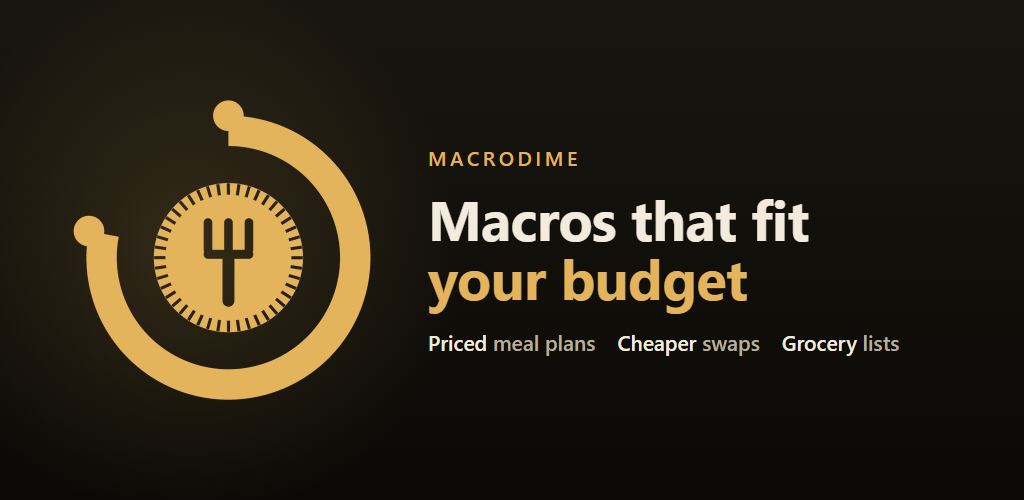
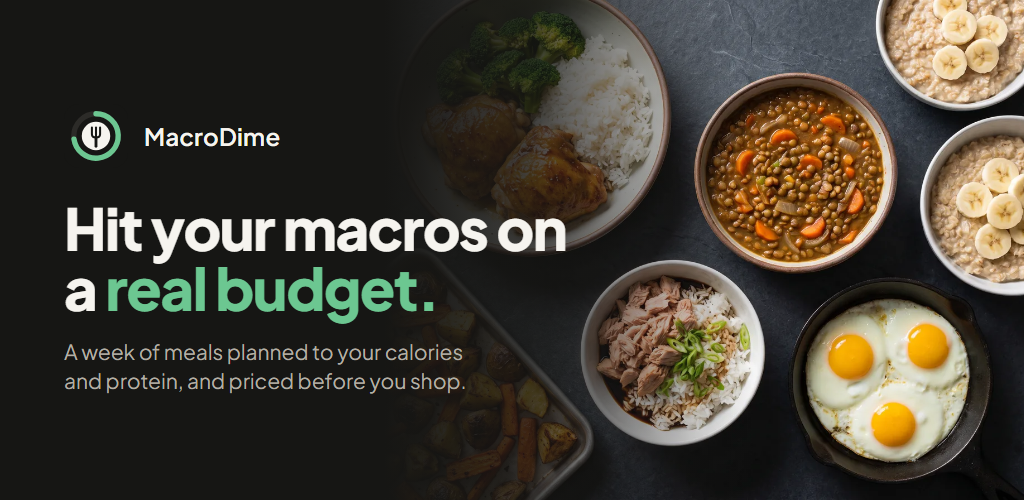
Make the store graphics from the real app, with a demo week and no real name
The Play screenshots showed "Good evening, Lungelo" and a $5.98 shopping
list against a $63 week, because the demo planned one day; the feature
graphic was still black and gold.

- DemoData names its user Sam, a placeholder, on both platforms, and plans
  the rest of the grocery week the way onboarding plans a new user's, so
  Groceries shows a real week's shop ($55.56 of $63, 28 items).
- The screenshot test that photographs an empty day now steps to the first
  day after the demo week, which is the first one left empty.
- make_store_screenshots.py frames five real screens from ScreenshotTest
  (Today, Plan, the swap review, Groceries, Today in dark) at 1080 x 1920
  with a caption each, in the app's type and colours.
- The feature graphic is the app's first screen at banner width: ink, the
  food photograph, the new icon and "Hit your macros on a real budget."
  The render script now allows the page its local font and photo, and uses
  a profile of its own so an open Edge window cannot take the job over.
  play-store/mark.png, the old mark it used, is gone.

All 22 screenshot tests pass with the demo week.

diff --git a/android/play-store/feature-graphic.html b/android/play-store/feature-graphic.html
@@ -2,56 +2,53 @@
 <!--
   Source of play-store/feature-graphic.png, the 1024 x 500 banner Play Console
   requires. Rendered by android/scripts/render_feature_graphic.ps1 with headless
-  Edge. Every word is HTML text, so it can be edited and re-rendered rather
-  than repainted. Play may crop the edges on some surfaces, so nothing that
-  matters sits within 40 px of one.
+  Edge. It is the app's own first screen at banner width: ink, the app's font
+  and food photograph, its green, its icon (icon.svg, from make_icons.py) and
+  its opening line. Every word is HTML text, so it can be edited and
+  re-rendered rather than repainted. Play may crop the edges on some surfaces,
+  so nothing that matters sits within 40 px of one.
 -->
 <html lang="en">
 <head>
 <meta charset="utf-8">
 <title>MacroDime feature graphic</title>
 <style>
+  @font-face { font-family: Jakarta; src: url(../app/src/main/res/font/jakarta_extrabold.ttf); font-weight: 800; }
+  @font-face { font-family: Jakarta; src: url(../app/src/main/res/font/jakarta_semibold.ttf); font-weight: 600; }
+  @font-face { font-family: Jakarta; src: url(../app/src/main/res/font/jakarta_regular.ttf); font-weight: 400; }
   :root {
-    --gold: #E3B45C;
-    --cream: #F3EBDD;
-    --muted: #B9AE9A;
+    --ink: #161614;
+    --paper: #F6F4EF;
+    --muted: #B4AFA5;
+    --basil: #6CC791;
   }
   html, body { margin: 0; width: 1024px; height: 500px; overflow: hidden; }
-  body {
-    background: linear-gradient(180deg, #19160F 0%, #0A0906 100%);
-    font-family: "Segoe UI", "Roboto", "Helvetica Neue", Arial, sans-serif;
-    color: var(--cream);
-    display: flex;
-    align-items: center;
-    position: relative;
+  body { background: var(--ink); font-family: Jakarta, sans-serif; color: var(--paper); position: relative; }
+  .photo {
+    position: absolute; right: 0; top: 0; width: 640px; height: 500px;
+    background: url(../app/src/main/res/drawable-nodpi/food_spread.webp) center 42% / cover no-repeat;
   }
-  .glow {
-    position: absolute; left: -120px; top: -60px; width: 620px; height: 620px;
-    background: radial-gradient(circle, rgba(227,180,92,0.16) 0%, rgba(227,180,92,0) 62%);
+  /* The photo fades into the ink under the words, as the first screen's does. */
+  .fade {
+    position: absolute; right: 0; top: 0; width: 640px; height: 500px;
+    background: linear-gradient(90deg, var(--ink) 0%, rgba(22,22,20,0.82) 22%, rgba(22,22,20,0) 58%);
   }
-  .mark { position: relative; width: 300px; height: 300px; margin-left: 72px; flex: none; }
-  .copy { position: relative; margin-left: 56px; margin-right: 64px; }
-  .eyebrow {
-    font-size: 20px; letter-spacing: 0.18em; text-transform: uppercase;
-    color: var(--gold); font-weight: 600; margin-bottom: 18px;
-  }
-  h1 { font-size: 56px; line-height: 1.04; margin: 0 0 22px; font-weight: 700; letter-spacing: -0.01em; }
-  h1 span { color: var(--gold); }
-  .points { display: flex; gap: 22px; font-size: 21px; color: var(--muted); font-weight: 500; }
-  .points b { color: var(--cream); font-weight: 600; }
+  .copy { position: absolute; left: 64px; top: 0; bottom: 0; width: 520px; display: flex; flex-direction: column; justify-content: center; }
+  .brand { display: flex; align-items: center; gap: 16px; margin-bottom: 30px; }
+  .brand img { width: 64px; height: 64px; border-radius: 15px; display: block; }
+  .brand span { font-weight: 600; font-size: 24px; letter-spacing: 0.01em; }
+  h1 { font-weight: 800; font-size: 58px; line-height: 1.02; letter-spacing: -0.025em; margin: 0 0 20px; }
+  h1 em { font-style: normal; color: var(--basil); }
+  p { font-weight: 400; font-size: 21px; line-height: 1.4; color: var(--muted); margin: 0; max-width: 440px; }
 </style>
 </head>
 <body>
-  <div class="glow"></div>
-  <img class="mark" src="mark.png" alt="">
+  <div class="photo"></div>
+  <div class="fade"></div>
   <div class="copy">
-    <div class="eyebrow">MacroDime</div>
-    <h1>Macros that fit<br><span>your budget</span></h1>
-    <div class="points">
-      <div><b>Priced</b> meal plans</div>
-      <div><b>Cheaper</b> swaps</div>
-      <div><b>Grocery</b> lists</div>
-    </div>
+    <div class="brand"><img src="icon.svg" alt=""><span>MacroDime</span></div>
+    <h1>Hit your macros on a <em>real budget.</em></h1>
+    <p>A week of meals planned to your calories and protein, and priced before you shop.</p>
   </div>
 </body>
 </html>

diff --git a/android/app/src/main/kotlin/com/lungelo/macrodime/data/DemoData.kt b/android/app/src/main/kotlin/com/lungelo/macrodime/data/DemoData.kt
@@ -2,8 +2,12 @@
  * DemoData.kt
  * MacroDime
  *
- * Fills the store with a plausible day so the store screenshots can show the
- * product rather than an empty wizard. Port of MacroDime/Persistence/DemoData.swift.
+ * Fills the store with a plausible week so the store screenshots can show the
+ * product rather than an empty wizard: today's three meals as written below,
+ * and the rest of the week planned the way onboarding plans a new user's, so
+ * the grocery list is a real week's shop. The name is a placeholder, never a
+ * real person's: these screens are published. Port of
+ * MacroDime/Persistence/DemoData.swift.
  *
  * Debug builds only, and that is a security decision, not a convenience. On
  * iOS the trigger is a launch argument no other app can pass. On Android the
@@ -29,13 +33,13 @@ object DemoData {
     const val EXTRA_DEMO = "macrodime.demo"
     const val EXTRA_TAB = "macrodime.tab"
 
-    /** Three meals, a week of grocery lines, and one progress entry. Idempotent. */
+    /** Today's three meals, the rest of the week planned, its grocery list, and one progress entry. Idempotent. */
     suspend fun install(repository: MacroDimeRepository, today: LocalDate = LocalDate.now()) {
         repository.seedCatalog()
 
         val now = System.currentTimeMillis()
         val profile = (repository.currentProfile() ?: blankProfile(now)).copy(
-            displayName = "Lungelo",
+            displayName = "Sam",
             heightCm = 178.0,
             weightKg = 82.0,
             age = 31,
@@ -78,6 +82,9 @@ object DemoData {
         }
 
         repository.logBaselineIfEmpty(profile, waistCm = 88.0)
+        // The rest of this grocery week, as onboarding would plan it. Days
+        // already planned (today, or a second run) are left alone.
+        repository.planEmptyDays(profile, MacroDimeRepository.weekStart(today), 7)
         repository.regenerateGroceries(today)
     }
 

diff --git a/android/app/src/test/kotlin/com/lungelo/macrodime/ui/ScreenshotTest.kt b/android/app/src/test/kotlin/com/lungelo/macrodime/ui/ScreenshotTest.kt
@@ -47,6 +47,7 @@ import com.lungelo.macrodime.MacroDimeApplication
 import com.lungelo.macrodime.billing.PreviewSubscriptionStore
 import com.lungelo.macrodime.billing.StoreState
 import com.lungelo.macrodime.data.DemoData
+import com.lungelo.macrodime.data.MacroDimeRepository
 import com.lungelo.macrodime.domain.Entitlement
 import com.lungelo.macrodime.domain.PaywallReason
 import com.lungelo.macrodime.domain.ProPlan
@@ -61,6 +62,8 @@ import org.robolectric.RuntimeEnvironment
 import org.robolectric.annotation.Config
 import org.robolectric.annotation.GraphicsMode
 import java.io.File
+import java.time.LocalDate
+import java.time.temporal.ChronoUnit
 
 @GraphicsMode(GraphicsMode.Mode.NATIVE)
 abstract class ScreenshotBase {
@@ -183,8 +186,14 @@ abstract class ScreenshotBase {
         waitForText("Add to Snacks")
         compose.onNodeWithText("Done").performClick()
         compose.waitForIdle()
-        // Tomorrow: nothing planned, so the day offers to plan itself.
-        compose.onNodeWithContentDescription("Next day").performClick()
+        // The demo plans the rest of this grocery week, so the first empty day,
+        // which offers to plan itself, is the first day of the next week.
+        val today = LocalDate.now()
+        val firstEmpty = MacroDimeRepository.weekStart(today).plusDays(7)
+        repeat(ChronoUnit.DAYS.between(today, firstEmpty).toInt()) {
+            compose.onNodeWithContentDescription("Next day").performClick()
+            compose.waitForIdle()
+        }
         waitForTag("plan-day")
         save("$prefix-tab-2-plan-empty-day")
 

diff --git a/MacroDime/Persistence/DemoData.swift b/MacroDime/Persistence/DemoData.swift
@@ -65,7 +65,7 @@ enum DemoData {
             context.insert(profile)
         }
 
-        profile.displayName = "Lungelo"
+        profile.displayName = "Sam"
         profile.heightCm = 178
         profile.weightKg = 82
         profile.age = 31

diff --git a/android/scripts/make_store_screenshots.py b/android/scripts/make_store_screenshots.py
@@ -1,0 +1,120 @@
+#!/usr/bin/env python3
+"""Frames the app's screens as Play Store screenshots, with a caption on each.
+
+The screens come from ScreenshotTest (Robolectric, the real Compose UI with the
+demo week from DemoData), so run that first:
+
+    ./gradlew :app:testDebugUnitTest --tests '*LightScreenshotTest*' --tests '*DarkScreenshotTest*'
+    python android/scripts/make_store_screenshots.py
+
+Each one is drawn as an HTML page in the app's own type, colours and phone
+shape, and rendered by headless Edge to 1080 x 1920 (9:16, inside Play's 2:1
+limit) in android/play-screenshots/store/, which is git-ignored like the rest
+of that folder. Captions follow the app's writing rule: no dash characters.
+"""
+
+import base64
+import subprocess
+import tempfile
+import time
+from pathlib import Path
+
+ROOT = Path(__file__).resolve().parents[2]
+SHOTS = ROOT / "android" / "app" / "build" / "screenshots"
+FONT = ROOT / "android" / "app" / "src" / "main" / "res" / "font"
+OUT = ROOT / "android" / "play-screenshots" / "store"
+
+INK, PAPER, BASIL, BASIL_BRIGHT, MUTED = "#161614", "#F6F4EF", "#2E7A4E", "#6CC791", "#67635B"
+
+# (file name, source render, caption with the accent in <em>, light or dark)
+FRAMES = [
+    ("1-plan-your-week.png", "light-tab-1-today.png", "Your macros and <em>your money</em>, on one screen", "light"),
+    ("2-every-meal-priced.png", "light-tab-2-plan.png", "Every meal <em>priced</em> to your daily budget", "light"),
+    ("3-cheaper-swaps.png", "light-sheet-swap-review.png", "<em>Cheaper swaps</em> that keep your macros", "light"),
+    ("4-shopping-list.png", "light-tab-3-groceries.png", "A shopping list <em>built from your week</em>", "light"),
+    ("5-day-and-night.png", "dark-tab-1-today.png", "Easy to read<br><em>day or night</em>", "dark"),
+]
+
+
+def data_uri(path: Path, mime: str) -> str:
+    return f"data:{mime};base64," + base64.b64encode(path.read_bytes()).decode()
+
+
+def status_bar(colour: str) -> str:
+    """9:41, signal, wifi and a full battery, as a phone in demo mode shows them."""
+    return f"""
+<div class="status" style="color:{colour}">
+  <span>9:41</span>
+  <svg width="120" height="34" viewBox="0 0 120 34" fill="{colour}">
+    <path d="M4 26h5v6H4zM12 20h5v12h-5zM20 13h5v19h-5zM28 6h5v26h-5z"/>
+    <path d="M58 30l-5-6a8 8 0 0 1 10 0z M51 21l-4-4a17 17 0 0 1 22 0l-4 4a12 12 0 0 0-14 0z M45 15l-4-4a26 26 0 0 1 34 0l-4 4a20 20 0 0 0-26 0z" transform="translate(4 0)"/>
+    <rect x="86" y="8" width="26" height="20" rx="4" fill="none" stroke="{colour}" stroke-width="3"/>
+    <rect x="90" y="12" width="18" height="12" rx="2"/>
+    <rect x="113" y="14" width="3" height="8" rx="1"/>
+  </svg>
+</div>"""
+
+
+def page(source: Path, caption: str, mode: str) -> str:
+    bg, fg, accent, bezel = (PAPER, INK, BASIL, INK) if mode == "light" else (INK, PAPER, BASIL_BRIGHT, "#2C2B28")
+    # The status bar takes the colour of the screen's own top edge.
+    from PIL import Image
+
+    top = Image.open(source).convert("RGB").getpixel((20, 4))
+    screen_top = "#%02X%02X%02X" % top
+    icons = INK if sum(top) > 380 else PAPER
+    font = FONT.as_uri()
+    return f"""<!doctype html><html><head><meta charset="utf-8"><style>
+@font-face {{ font-family: J; src: url({font}/jakarta_extrabold.ttf); font-weight: 800; }}
+@font-face {{ font-family: J; src: url({font}/jakarta_semibold.ttf); font-weight: 600; }}
+html, body {{ margin: 0; width: 1080px; height: 1920px; overflow: hidden; }}
+body {{ background: {bg}; font-family: J, sans-serif; position: relative; }}
+h1 {{ position: absolute; top: 132px; left: 90px; right: 90px; margin: 0; text-align: center;
+      font-weight: 800; font-size: 80px; line-height: 1.06; letter-spacing: -0.025em; color: {fg}; }}
+h1 em {{ font-style: normal; color: {accent}; }}
+.phone {{ position: absolute; top: 450px; left: 110px; width: 860px; height: 1700px; box-sizing: border-box;
+          border: 16px solid {bezel}; border-radius: 84px; overflow: hidden; background: {screen_top};
+          box-shadow: 0 40px 90px rgba(0,0,0,{0.16 if mode == "light" else 0.5}); }}
+.status {{ height: 86px; display: flex; align-items: center; justify-content: space-between; padding: 6px 52px 0 58px;
+           box-sizing: border-box; font-weight: 600; font-size: 34px; }}
+.screen {{ display: block; width: 828px; }}
+</style></head><body>
+<h1>{caption}</h1>
+<div class="phone">{status_bar(icons)}<img class="screen" src="{data_uri(source, 'image/png')}"></div>
+</body></html>"""
+
+
+def render(html: str, out: Path) -> None:
+    edge = next(p for p in [Path(r"C:/Program Files (x86)/Microsoft/Edge/Application/msedge.exe"),
+                            Path(r"C:/Program Files/Microsoft/Edge/Application/msedge.exe")] if p.exists())
+    with tempfile.TemporaryDirectory(ignore_cleanup_errors=True) as tmp:
+        src = Path(tmp) / "frame.html"
+        src.write_text(html, encoding="utf-8")
+        if out.exists():
+            out.unlink()
+        subprocess.run(
+            [str(edge), "--headless=new", "--disable-gpu", "--hide-scrollbars", "--force-device-scale-factor=1",
+             "--allow-file-access-from-files", f"--user-data-dir={Path(tmp) / 'profile'}",
+             "--window-size=1080,1920", f"--screenshot={out}", src.as_uri()],
+            capture_output=True, timeout=120,
+        )
+        for _ in range(60):
+            if out.exists() and out.stat().st_size > 0:
+                break
+            time.sleep(0.5)
+        else:
+            raise SystemExit(f"Edge did not write {out}")
+
+
+def main() -> None:
+    OUT.mkdir(parents=True, exist_ok=True)
+    for name, source, caption, mode in FRAMES:
+        path = SHOTS / source
+        if not path.exists():
+            raise SystemExit(f"{path} is missing: run the screenshot tests first.")
+        render(page(path, caption, mode), OUT / name)
+        print("wrote", OUT / name)
+
+
+if __name__ == "__main__":
+    main()

diff --git a/docs/play-store-listing.md b/docs/play-store-listing.md
@@ -94,18 +94,19 @@ MacroDime estimates energy needs from population averages. Your real metabolic r
 
 | Asset | Requirement | Status |
 | --- | --- | --- |
-| App icon | 512 x 512 PNG | `android/play-store/icon-512.png`, generated from the iOS icon by `android/scripts/make_icons.py` |
-| Feature graphic | 1024 x 500 PNG or JPEG, required | `android/play-store/feature-graphic.png` |
-| Phone screenshots | 2 to 8, each side 320 to 3,840 px, no more than 2:1 | The `android.yml` workflow captures all four tabs from an emulator with demo data and uploads them as the `play-screenshots` artifact |
+| App icon | 512 x 512 PNG | `android/play-store/icon-512.png`, drawn by `android/scripts/make_icons.py` with the launcher icon, the themed icon, the notification icon, the iOS icon and the website's icons, all from one set of shapes |
+| Feature graphic | 1024 x 500 PNG or JPEG, required | `android/play-store/feature-graphic.png`, from `feature-graphic.html`: the app's first screen at banner width (ink, the food photograph, the icon, "Hit your macros on a real budget.") |
+| Phone screenshots | 2 to 8, each side 320 to 3,840 px, no more than 2:1 | `android/play-screenshots/store/`, 1080 x 1920: the real screens from `ScreenshotTest` with the demo week (a placeholder name, never a real person's), framed with a caption each by `android/scripts/make_store_screenshots.py` |
 
-Screenshot captions, in tab order, if you add text frames:
+The captions, in upload order:
 
-| Tab | Caption |
+| Screen | Caption |
 | --- | --- |
 | Today | `Your macros and your money, on one screen` |
-| Plan | `Every meal priced, with a cheaper version one tap away` |
-| Groceries | `A shopping list built from the week you planned` |
-| Settings | `Change what you eat, or what you spend, any time` |
+| Plan | `Every meal priced to your daily budget` |
+| Swap review | `Cheaper swaps that keep your macros` |
+| Groceries | `A shopping list built from your week` |
+| Today, dark | `Easy to read day or night` |
 
 ## App content: every declaration
 

diff --git a/docs/SHIPPING-GAPS.md b/docs/SHIPPING-GAPS.md
@@ -88,11 +88,25 @@ does not tell an app which offer a purchase used). Verified against
 PreviewSubscriptionStore and the core rules only; the on-hold screen has not
 met a real account hold yet (see the phone checks in play-store-listing.md).
 
+**One icon everywhere, 2026-10-05.** The gold mark from the first iOS
+build no longer matched an app drawn in ink, paper and basil. The new icon is
+the Today screen's ink card in miniature: a white coin with a fork, ringed by
+the green arc of what is left of the day. `android/scripts/make_icons.py`
+draws it from one set of shapes into the Android launcher layers (vectors, so
+the per-density PNGs are gone), the Android 13 themed layer, the trial
+reminder's notification icon, the Play icon, the iOS AppIcon and the
+website's favicon and header. The feature graphic is now the app's first
+screen at banner width, and the store screenshots are the real screens
+(`ScreenshotTest`, with a demo week under the placeholder name Sam rather
+than a real person's) framed with captions by `make_store_screenshots.py`.
+
 **What iOS no longer matches** (port when iOS work resumes, each with its
 tests): the plan generator, the culinary families (and with them the README's
 salmon table, which still lists the cross-family swaps), the trial-only
 paywall and the reminder notification, the subscription-required line and the
-on-hold screen, the intro screens, and the theme. Until
+on-hold screen, the intro screens, and the theme. (The icon is already shared:
+the iOS AppIcon is drawn by the same script, so the iOS screens, still gold,
+are what will look out of place until the theme is ported.) Until
 then the Kotlin parity test checks only the three salmon swaps both engines
 still agree on.
 

diff --git a/android/README.md b/android/README.md
@@ -98,8 +98,9 @@ To have CI produce signed bundles instead, add the four
 
 Everything Play Console asks, with the answers and the order to do it in, is in
 [`../docs/play-store-listing.md`](../docs/play-store-listing.md). The icon,
-feature graphic and their sources are in `play-store/`; the CI screenshots job
-captures the phone screenshots.
+feature graphic and their sources are in `play-store/`. The store screenshots
+are the app's real screens, rendered by `ScreenshotTest` with the demo week and
+framed with a caption each by `scripts/make_store_screenshots.py`.
 
 ## Deliberate differences from iOS
 
@@ -119,7 +120,9 @@ reason that varied run to run. Each fix is listed in
 ## Regenerating assets
 
 ```
-python3 android/scripts/make_icons.py                       # launcher + store icon, from the iOS icon
+python3 android/scripts/make_icons.py                       # the icon everywhere: launcher, themed, notification, Play, iOS, website
 powershell -File android/scripts/render_feature_graphic.ps1  # feature graphic, from its HTML
+./gradlew :app:testDebugUnitTest --tests '*ScreenshotTest*'  # the screens, with the demo week
+python3 android/scripts/make_store_screenshots.py           # store screenshots, framed and captioned
 python3 scripts/update_prices.py --sync-kotlin               # Kotlin prices, from the Swift table
 ```
